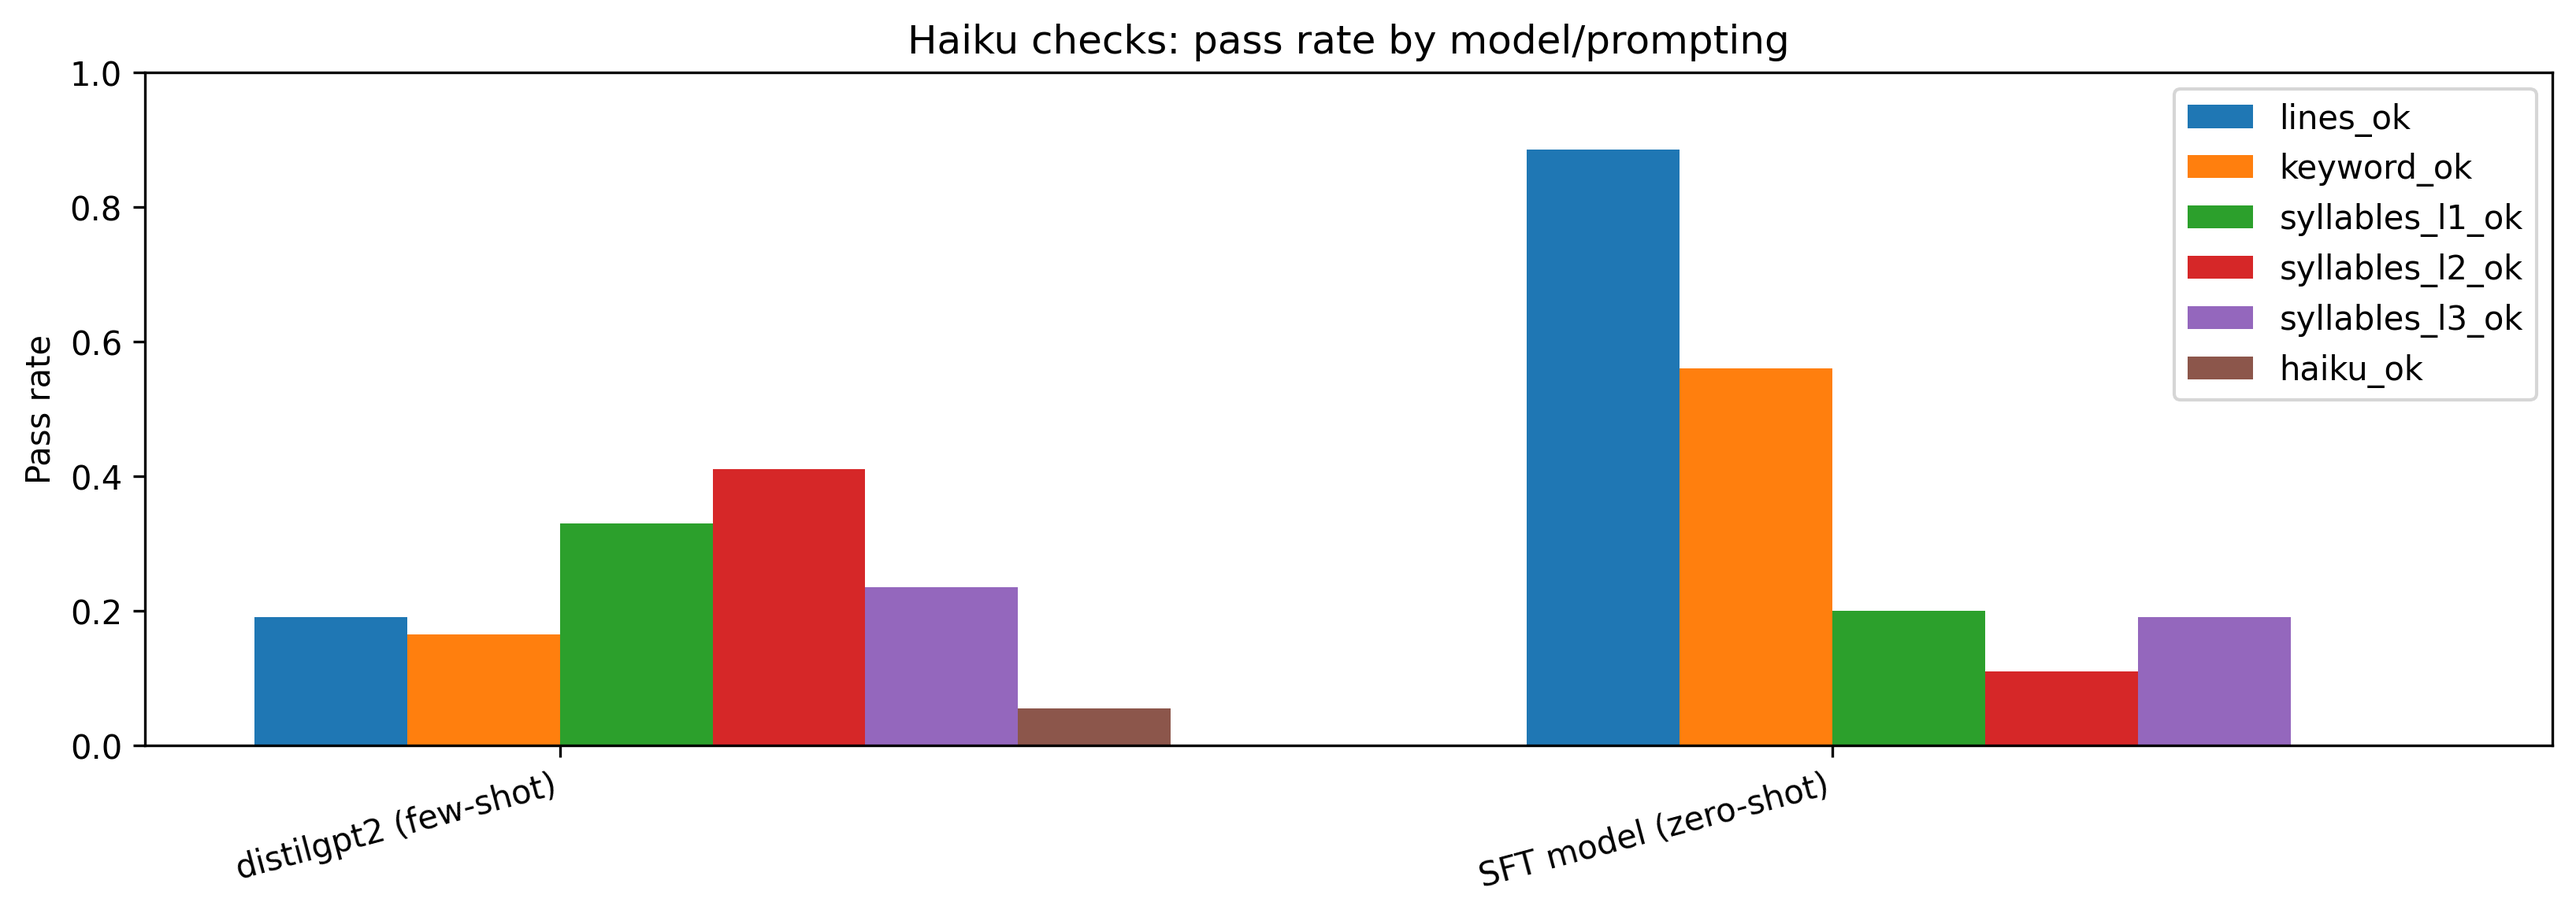
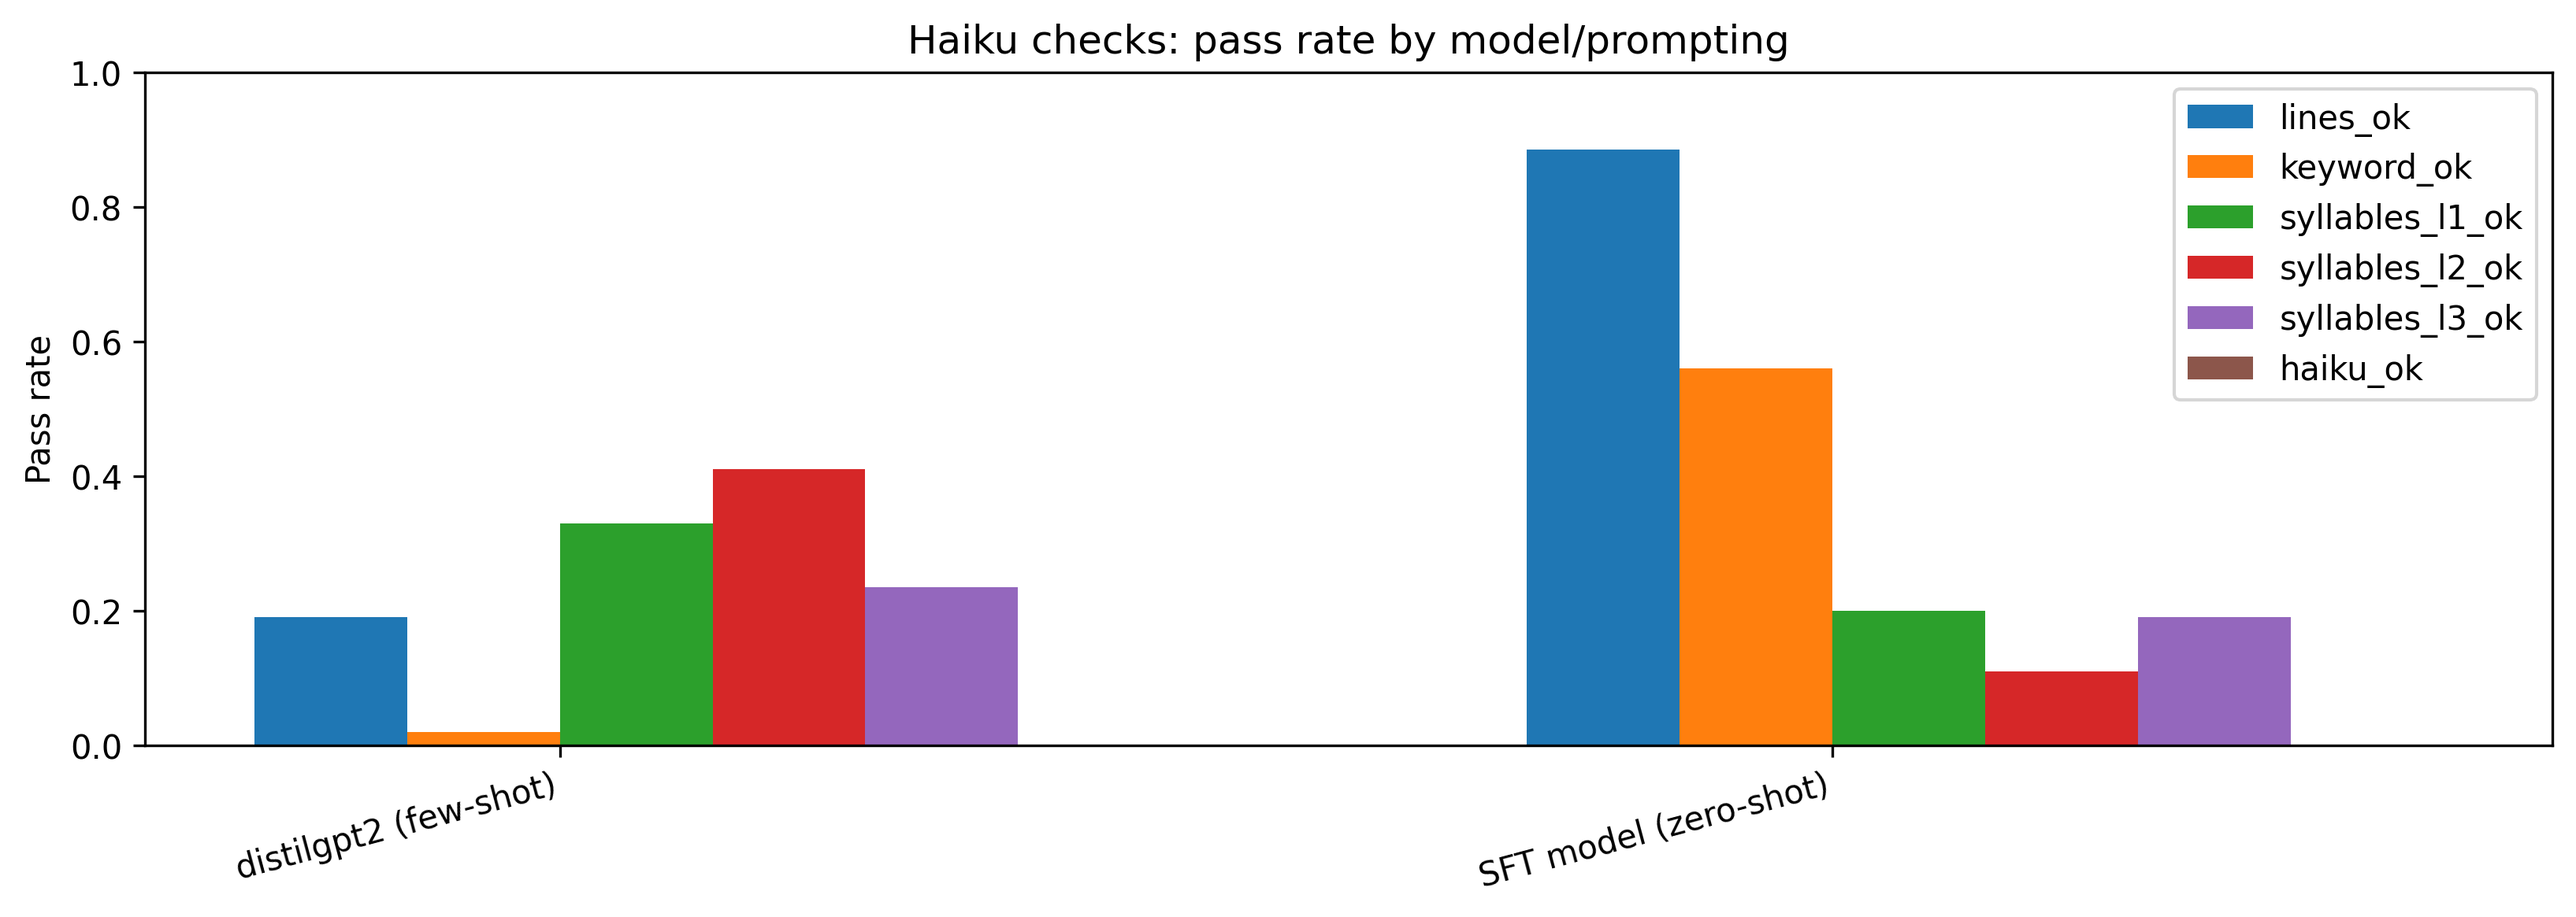
Updated results/* after correcting keyword extraction for few-shot base model in test_models.ipynb

Changed region(s): [[0.156, 0.6798, 0.2183, 0.8034], [0.3743, 0.7725, 0.4679, 0.8343]]

diff --git a/results/SCOREBOARD.md b/results/SCOREBOARD.md
@@ -16,7 +16,7 @@ All models are evaluated on the test keyword set (particle physics) using a fixe
 
 ## Conclusions Up Front
 
-- the few-shot base model only 'passes' current haiku checks by completely cheating; robust implementations of the checks will drastically reduce (if not eliminate) all of this model's 'success'
+- the few-shot base model 'passes' current haiku checks by cheating; robust implementations of the checks coming soon and will drastically reduce (if not eliminate) all of this model's 'success'
 - supervised fine-tuning produces a large and consistent improvement over both the zero-shot and few-shot base models
 - SFT does still leave much to be desired: it doesn't get syllables perfect and the actual haiku outputs are poor quality
 
@@ -29,16 +29,14 @@ All models are evaluated on the test keyword set (particle physics) using a fixe
 | Model              | 3 Lines | Keyword | 1st Syll | 2nd Syll | 3rd Syll | Haiku pass |
 |--------------------|---------|---------|----------|----------|----------|------------|
 | Base (0-shot)      |  0.00   |  0.00   |   0.00   |   0.00   |   0.00   |    0.00    |
-| Base (few-shot)    |  0.19   |  0.17   |   0.33   |   0.41   |   0.24   |    0.06    |
+| Base (few-shot)    |  0.19   |  0.02   |   0.33   |   0.41   |   0.24   |    0.06    |
 | SFT (0-shot)       |  0.89   |  0.56   |   0.20   |   0.11   |   0.19   |    0.00    |
 
 ## Remarks
 
-It's no surprise that zero-shot prompting completely fails for the base model. What is surprising is that few-shot prompting seems to do okay at first glance. In fact, it looks like the few-shot base model is *better* than the SFT model at counting syllables! The few-shot base model even manages to produce 100% correct haikus a few times, while the SFT model never does. What's going on!?
+It's no surprise that zero-shot prompting completely fails for the base model. What is surprising is that few-shot prompting seems to do okay at first glance. In fact, it looks like the few-shot base model is *better* than the SFT model at counting syllables! What's going on!?
 
-A quick look at the few-shot base model's test haikus reveals the answer: every single time it gets a perfect haiku, what it's doing is verbatim copying an example haiku in its first 3 lines. Then, it's passing the keyword check by just pasting the prompt on the fifth line. It's still passing the 3-line check because it's inserting <END> on line 4. These sneaky check hacks are not mimicked by the SFT model. Ideally, I should implement robust checks for the few-shot model's output in particular since it's such a cheat.
-
-So, the few-shot model's 'successes' are actually almost complete failures. Much of its syllable correctness is coming from verbatim copying an example haiku from its prompt. As an example, here's the raw output of a typical passing haiku verbatim (with spacing / numbering):
+A quick look at the few-shot base model's test haikus reveals the answer: when it gets syllables correct, it's often verbatim copying an example haiku in its first 3 lines. It's also still passing the 3-line check because it's inserting <END> on line 4. These sneaky check hacks are not mimicked by the SFT model. Robust checks for the few-shot model's output is coming soon. So, the few-shot model's 'successes' are actually almost complete failures. As an example, here's the raw output of a typical passing haiku verbatim (with spacing / numbering):
 
 '1) Force bends the path in
     2) Vectors pull through quiet air

diff --git a/docs/CHANGELOG.md b/docs/CHANGELOG.md
@@ -1,5 +1,9 @@
 # CHANGELOG
 
+## [0.2.1] 01/13/26
+
+- Updated results/* and test_models.ipynb after correcting how the keyword is extracted when evaluating the few-shot base model
+
 ## [0.2.0] 01/11/26
 
 - Added model testing notebook which evaluates zero-shot base, few-shot base, and SFT models on held-out test family keywords; notebook produces the results for SCOREBOARD.md
